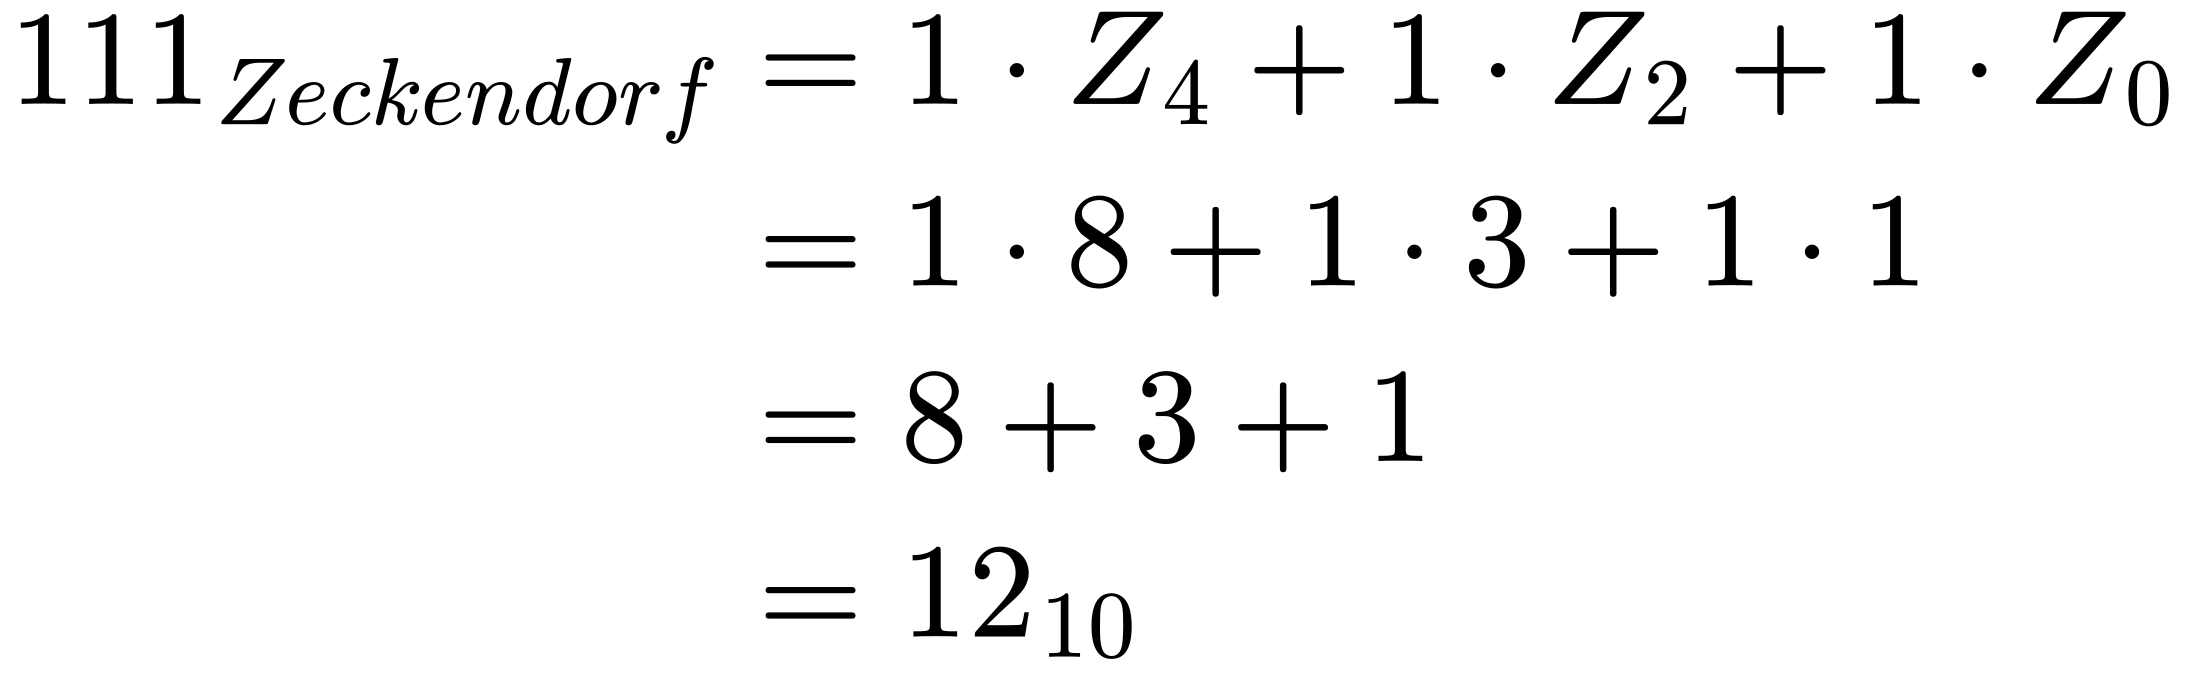
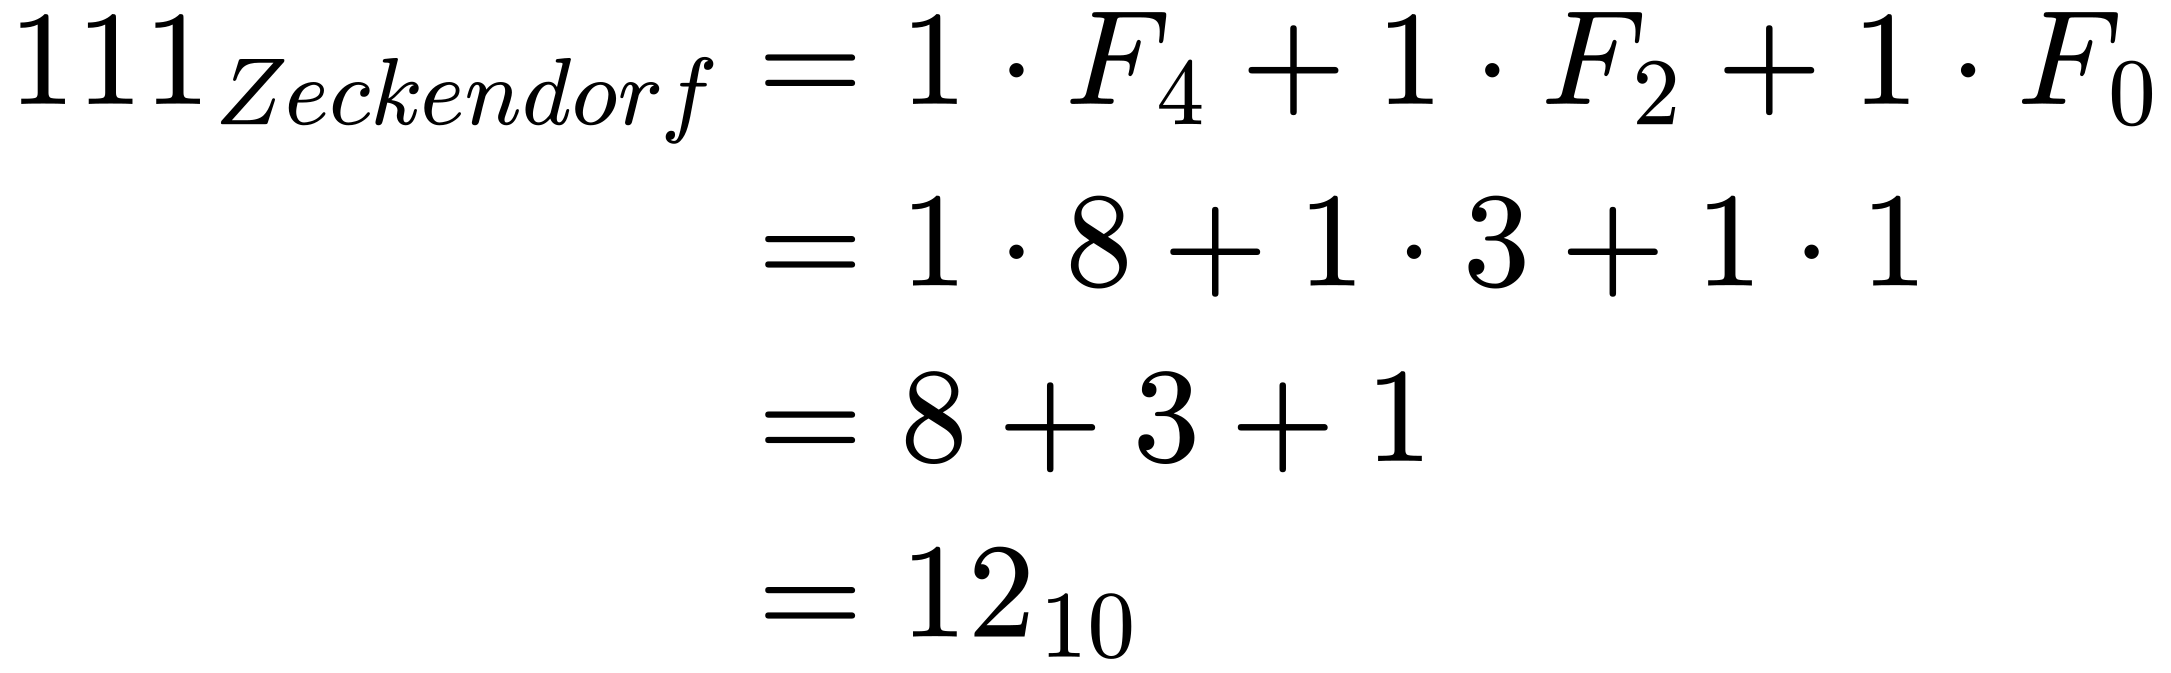
Refactor Zeckendorf representation in LaTeX; replace Z_n notation with F_n for clarity and consistency. Update SVG output dimensions for improved rendering.

diff --git a/equations/12_in_zeckendorf.tex b/equations/12_in_zeckendorf.tex
@@ -1,8 +1,17 @@
 % 12 in Zeckendorf representation
 
+% OLD:
+% \begin{align}
+% 111_{Zeckendorf} &= 1 \cdot Z_4 + 1 \cdot Z_2 + 1 \cdot Z_0\\
+% &= 1 \cdot 8     + 1 \cdot 3     + 1 \cdot 1 \\
+% &= 8 + 3 + 1 \\
+% &= 12_{10}
+% \end{align}
+
 \begin{align}
-111_{Zeckendorf} &= 1 \cdot Z_4 + 1 \cdot Z_2 + 1 \cdot Z_0\\
-&= 1 \cdot 8     + 1 \cdot 3     + 1 \cdot 1 \\
-&= 8 + 3 + 1 \\
-&= 12_{10}
-\end{align}
+    111_{Zeckendorf} &= 1 \cdot F_4 + 1 \cdot F_2 + 1 \cdot F_0\\
+    &= 1 \cdot 8     + 1 \cdot 3     + 1 \cdot 1 \\
+    &= 8 + 3 + 1 \\
+    &= 12_{10}
+    \end{align}
+    
